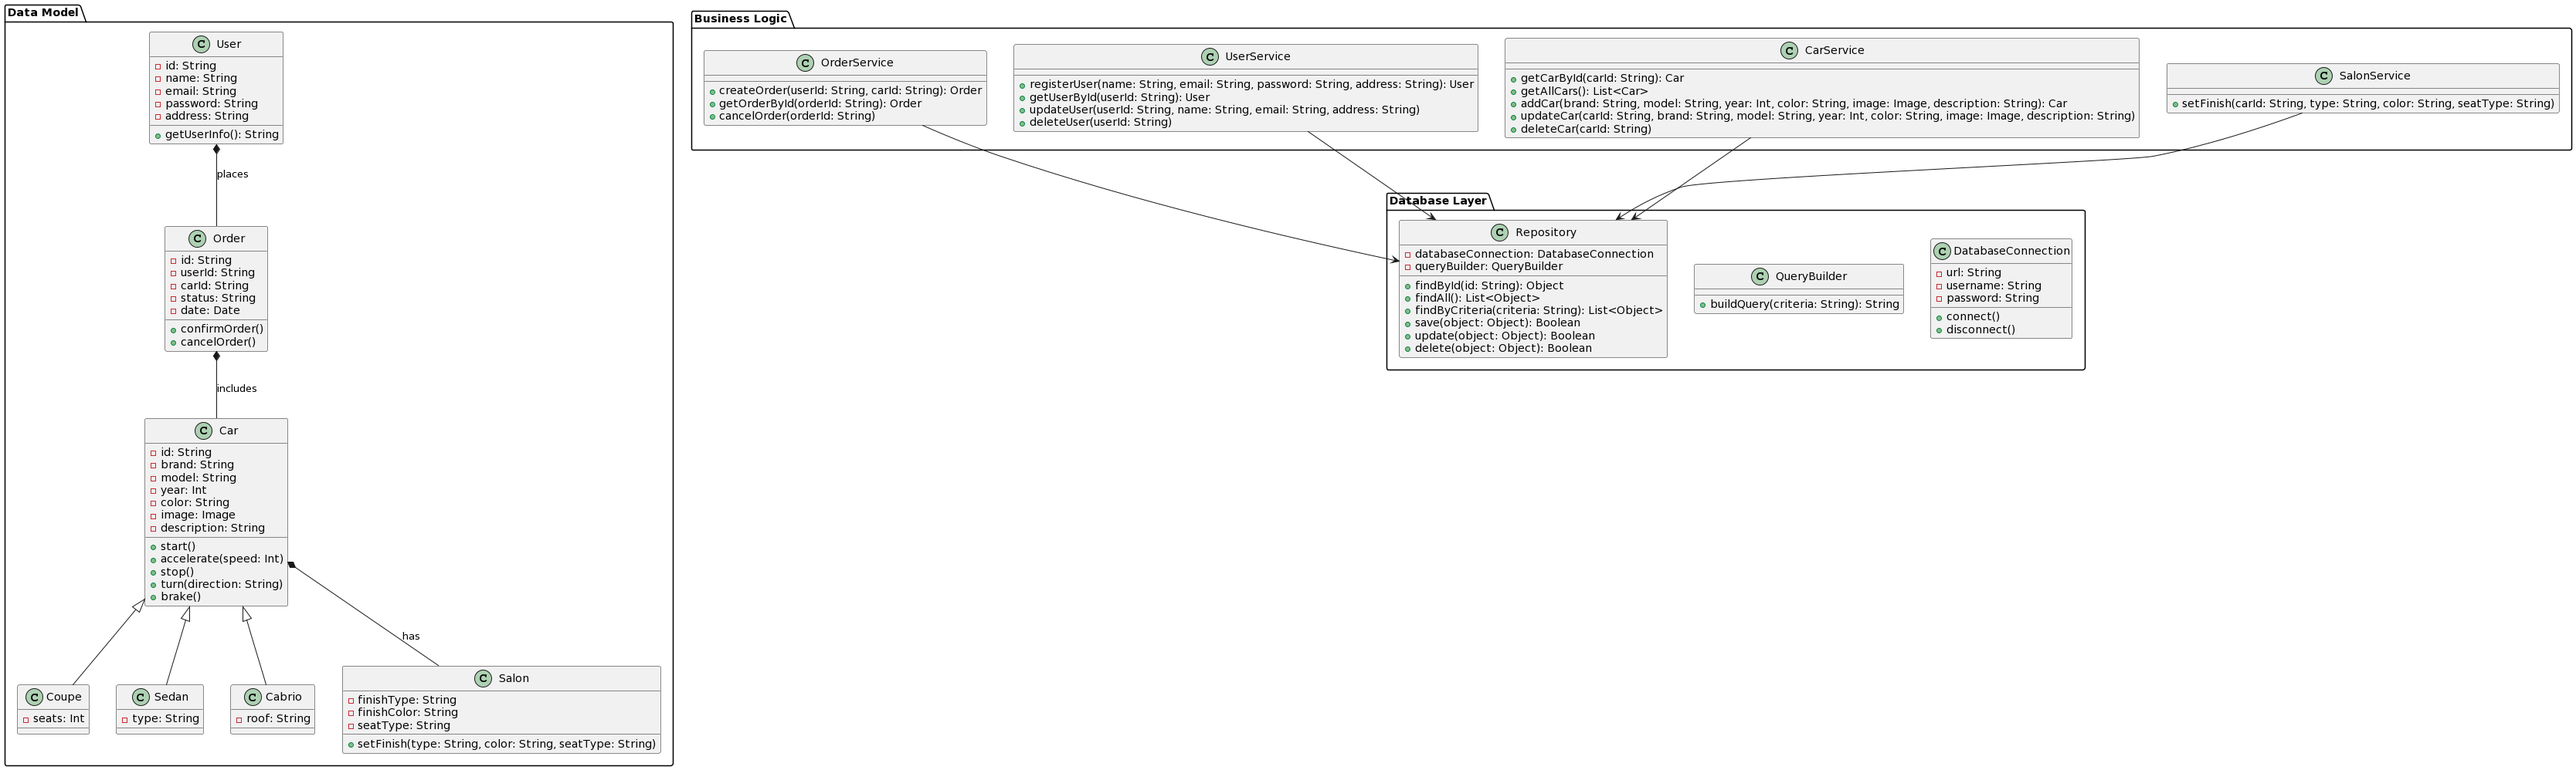
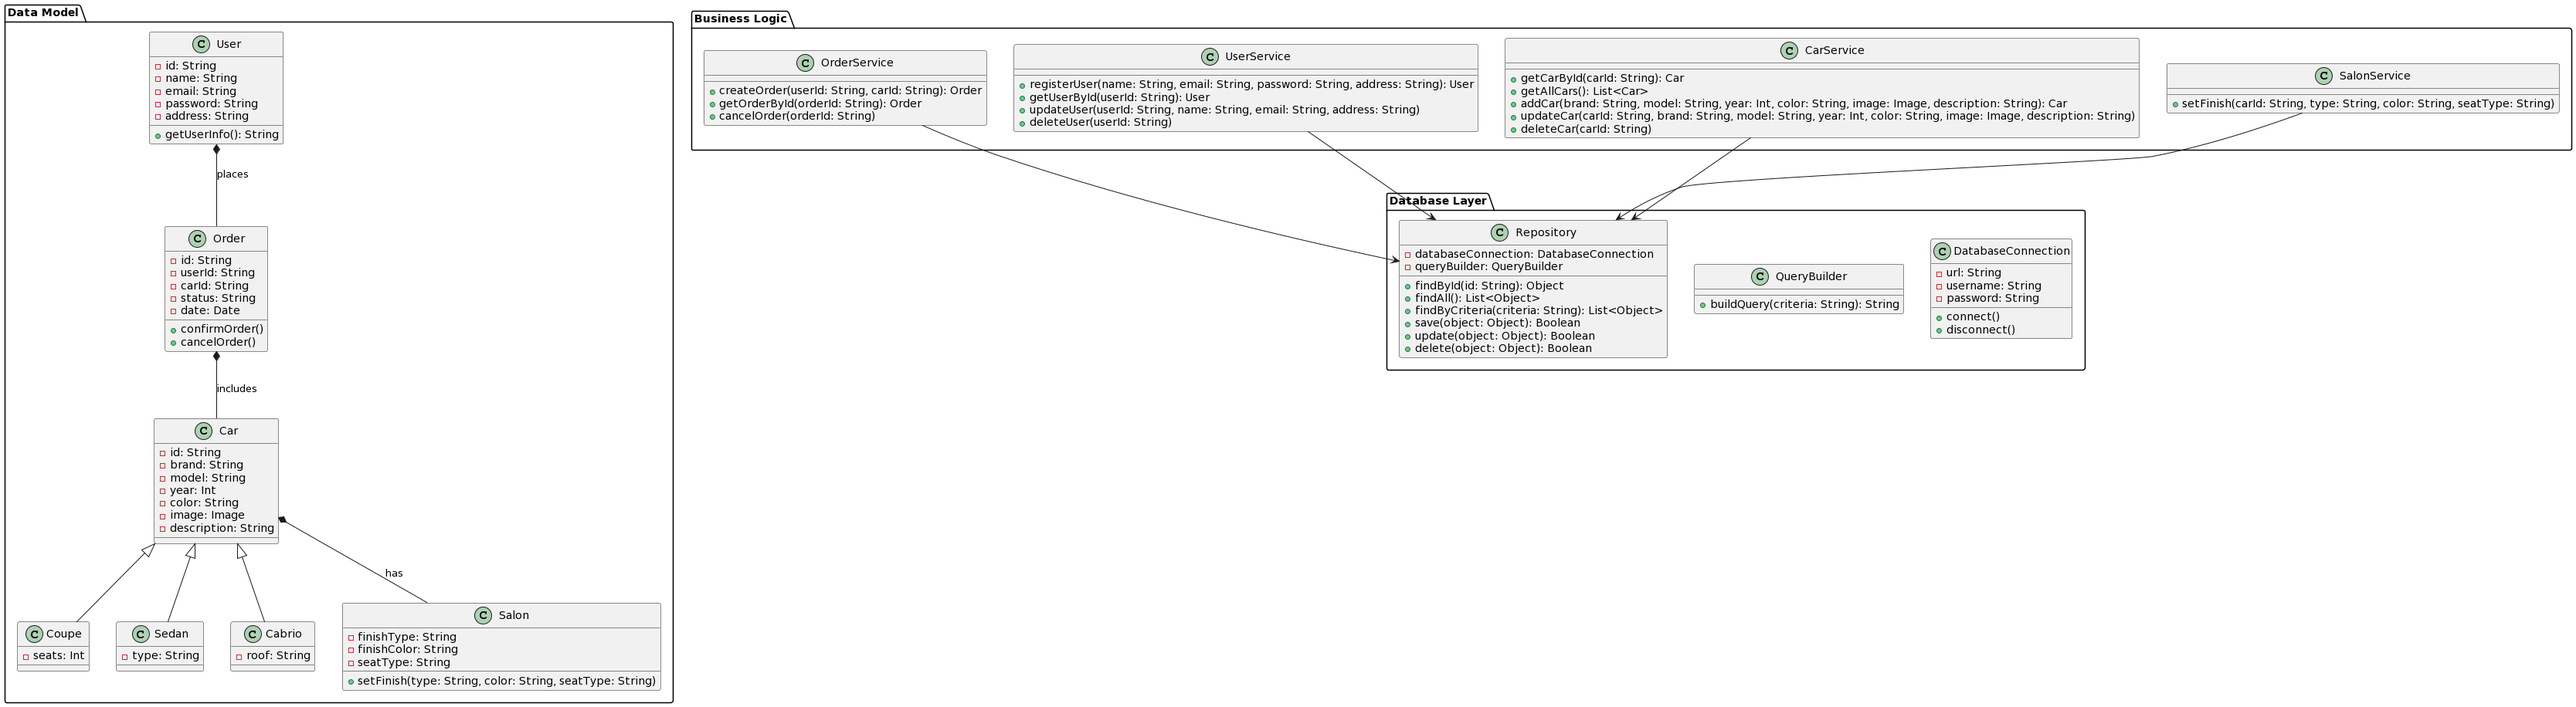
add all except database layer

Changed region(s): [[0.0, 0.0, 1.0, 0.5502], [0.0, 0.8559, 0.2495, 1.0], [0.0624, 0.3057, 0.1247, 0.7948]]

diff --git a/README.md b/README.md
@@ -5,12 +5,63 @@
  >Предназначено для того, чтобы пользователи могли выбрать автомобиль, кастомизировать в соответствии со своими желаниями и оформить его заказ. Пользователям будут доступны некоторые модели автомобилей и варианты их кастомизации, из которых они смогут выбрать подходящую для себя комплектацию кузова, салона, характеристик и др.
 
  ## Диаграмма классов
+![Диаграмма классов](class_diogramm.png)
+
+ ## Функционал
+ ### ___Data Model___
+ ### Class User
+ * id: String - уникальный идентификатор пользователя
+ * name: String - имя пользователя
+ * email: String - почтовый адрес пользователя
+ * adress: String - регион проживания пользователя
+ * getUserInfo(): String - получение информации о пользователе
+
+ ### Class Car
+ * id: String - уникальный идентификатор авто
+ * brand: String - марка автомобиля
+ * model: String - модель автомобиля
+ * year: Int - год выпуска автомобиля
+ * color: String - цвет корпуса автомобиля
+ * image: Image - изображение автомобиля
+ * description: String - общее описание характеристик авто
+### Class Sedan
+* type: String - указывает на принадлежность авто к спортивному типу или к повседневному
+### Class Coupe
+* seats: Int - количество мест для сидения (2 или 4)
+### Class Cabrio
+* roof: String - материал крыши (ткань или металл)
+### Class Salon 
+* finishType: String - материал отделки салона
+* finishKolor: String - цвет отделки салона
+* seatType: String - тип сидений
+* setFinish(type: String, color: String, seatType: String) - метод для установки отделки салона автомобиля
+### Class Order
+* id: String - уникальный идентификатор заказа
+* userId: String - уникальный идентификатор заказчика
+* carId: String - уникальный идентификатор заказанного авто
+* status: String - статус заказа
+* date: Date - дата оформления заказа
+
+### ___Business Logic___
+### Class OrderService
+* createOrder(userId: String, carId: String): Order - метод для создания нового заказа на покупку автомобиля
+* getOrderById(orderId: String): Order - метод для получения информации о заказе по его идентификатору
+* canselOrder(orderId: String) - метод для отмены заказа по его идентификатору  
+### Class UserService
+* registerUser(name: String, email: String, password: String adress: String): User - метод для регистрации пользователя на платформе
+* getUserById(userId: String): User - метод для получения информации о пользователе по его ID
+* updateUser(userId: String, name: String, email: String, adress: String) - метод для обновления информации о пользователе
+* deleteUser(userId: String) - метод для удаления информации о пользователе
+### Class CarService
+* getCarById(carId: String): Car - метод для получения информации об автомобиле по его идентификатору
+* getAllCars(): List\<Car> - метод для просмотра списка автомобилей
+* addCar(brand: String, model: String, year: Int, color: String, image: Image, description: String): Car - метод для добавления нового автомобиля в каталог
+* updateCar(carId: String, brand: String, model: String, year: Int, color: String, image: Image, description: String) - метод для обновления информации об автомобиле
+* deleteCar(carId: String) - метод для удаления информации об автомобиле
+### Class SalonService
+* setFinish(carId: String, type: String, color: String, seatType: String) - метод  для установки отделки салона конкретного автомобиля
 
 
-
-
- ## Список функций
- >что-нибудь
 
 
 
